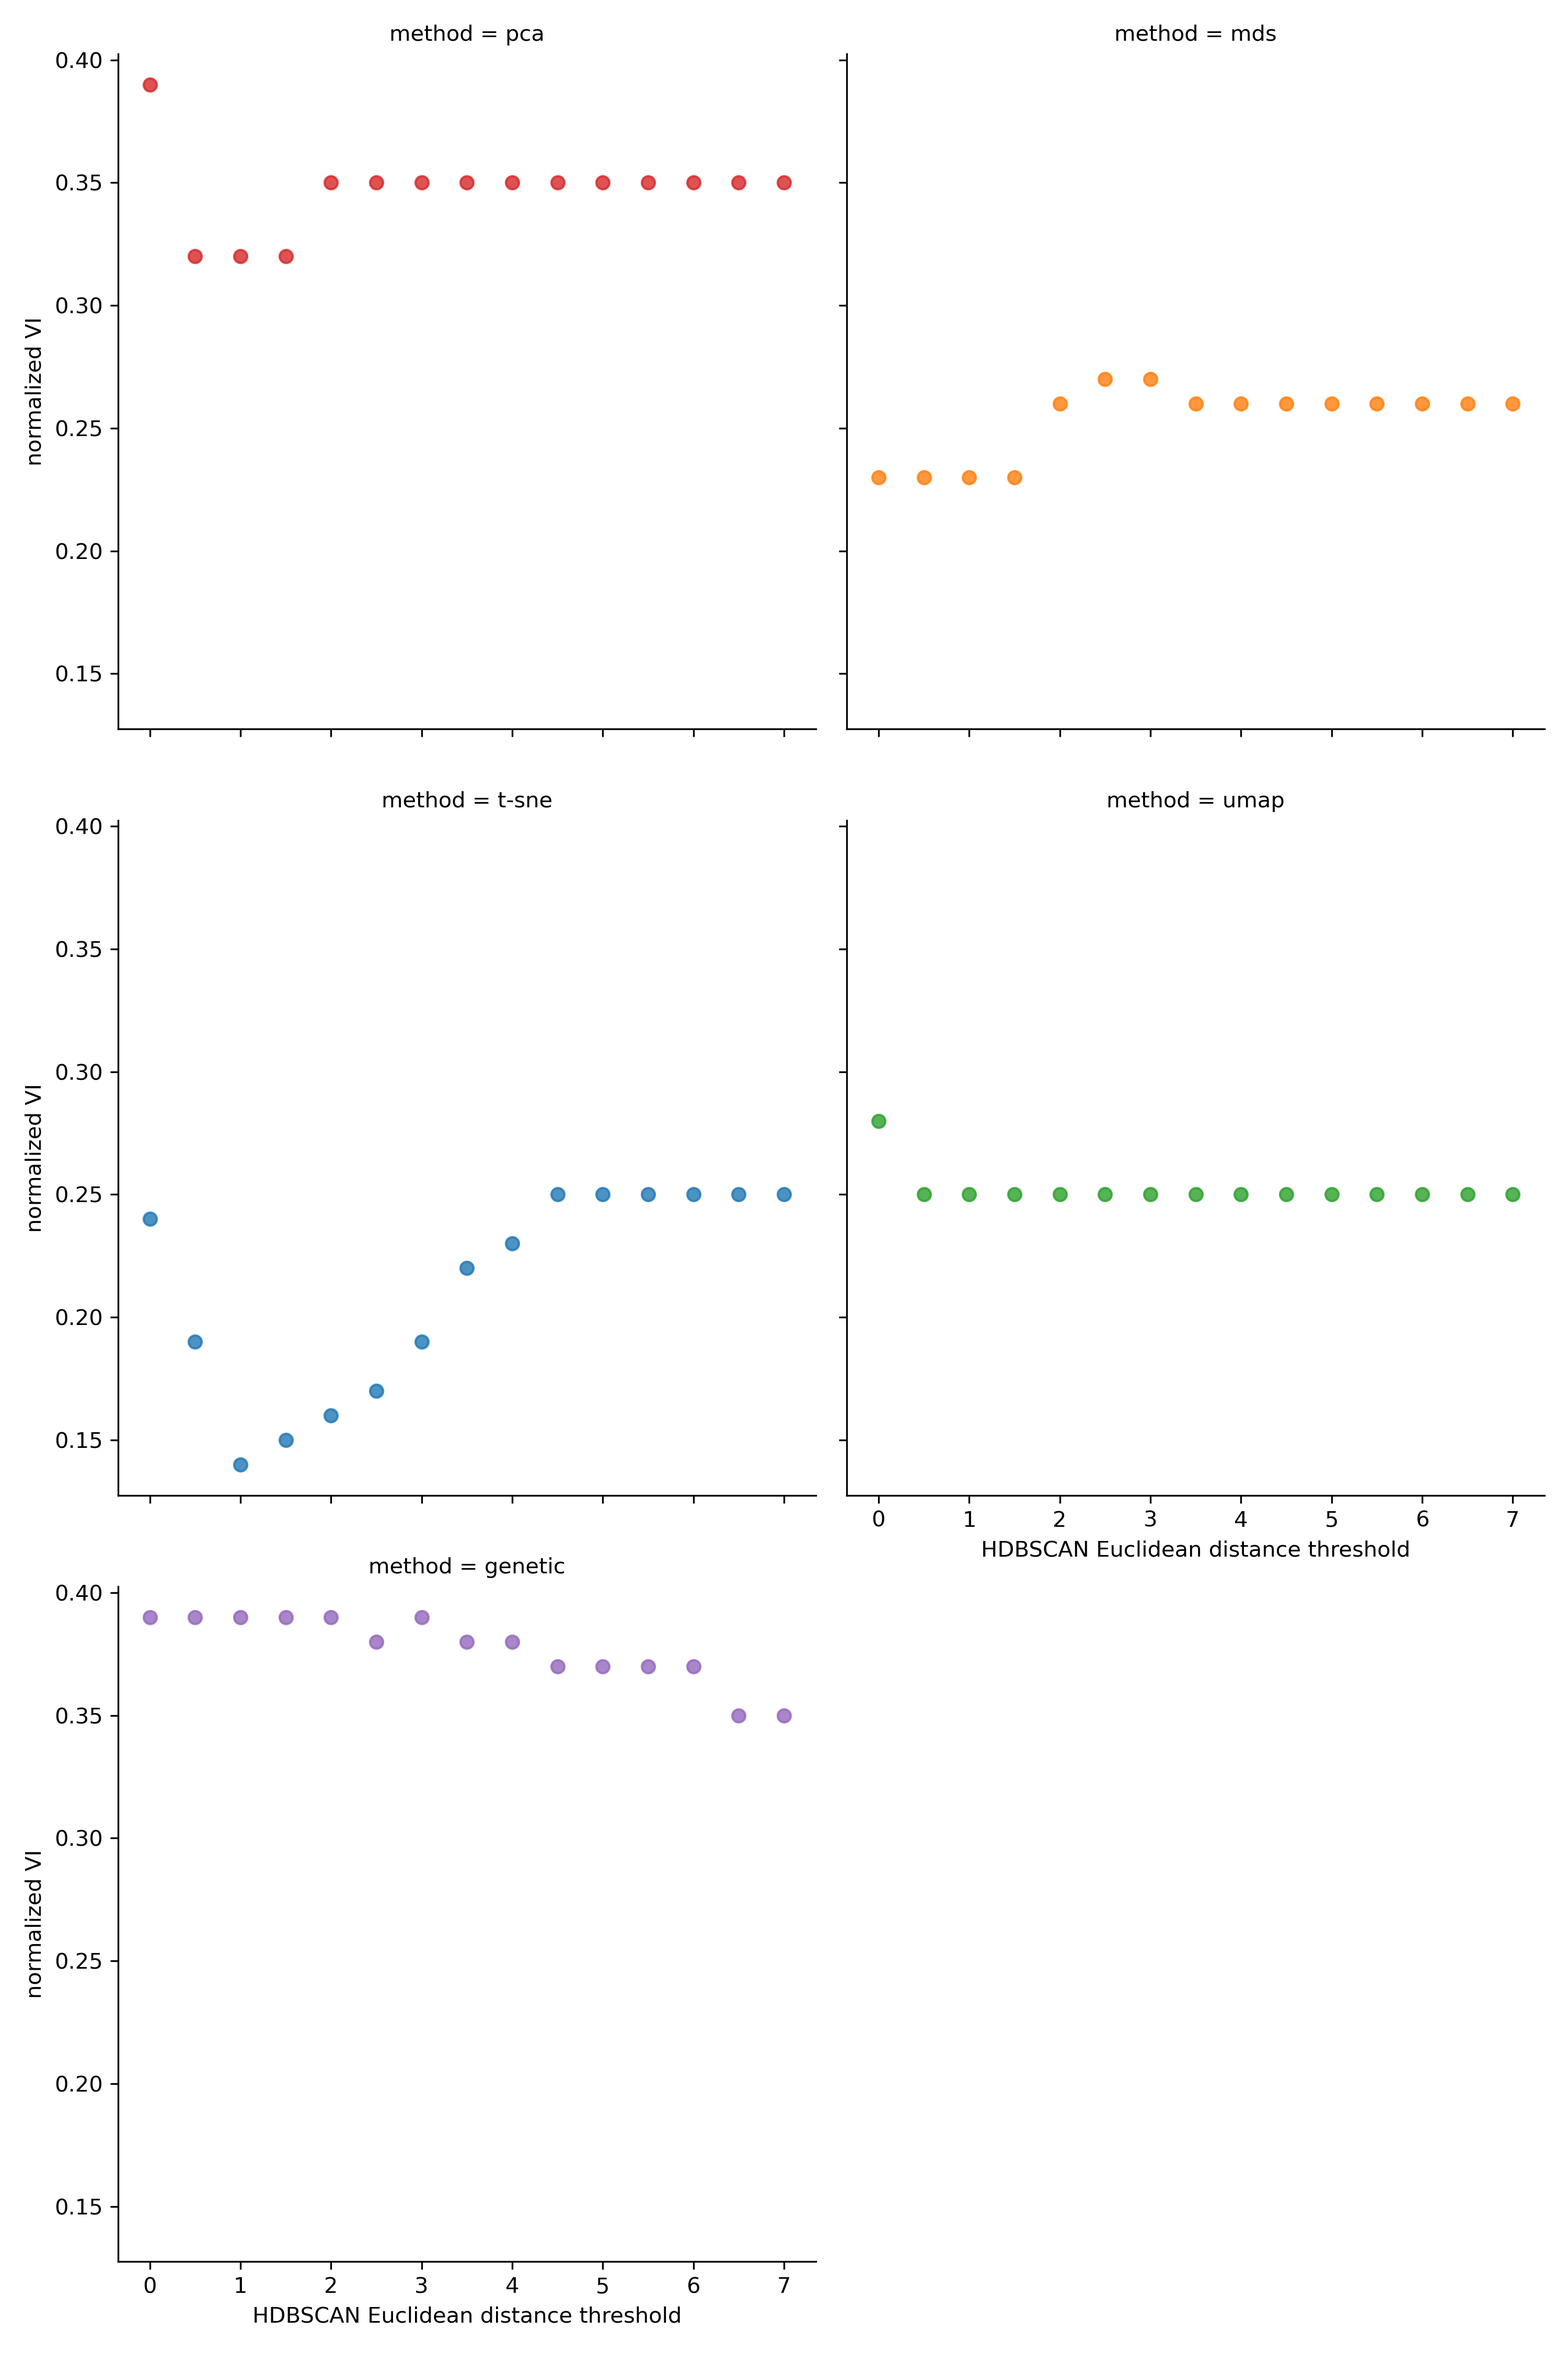
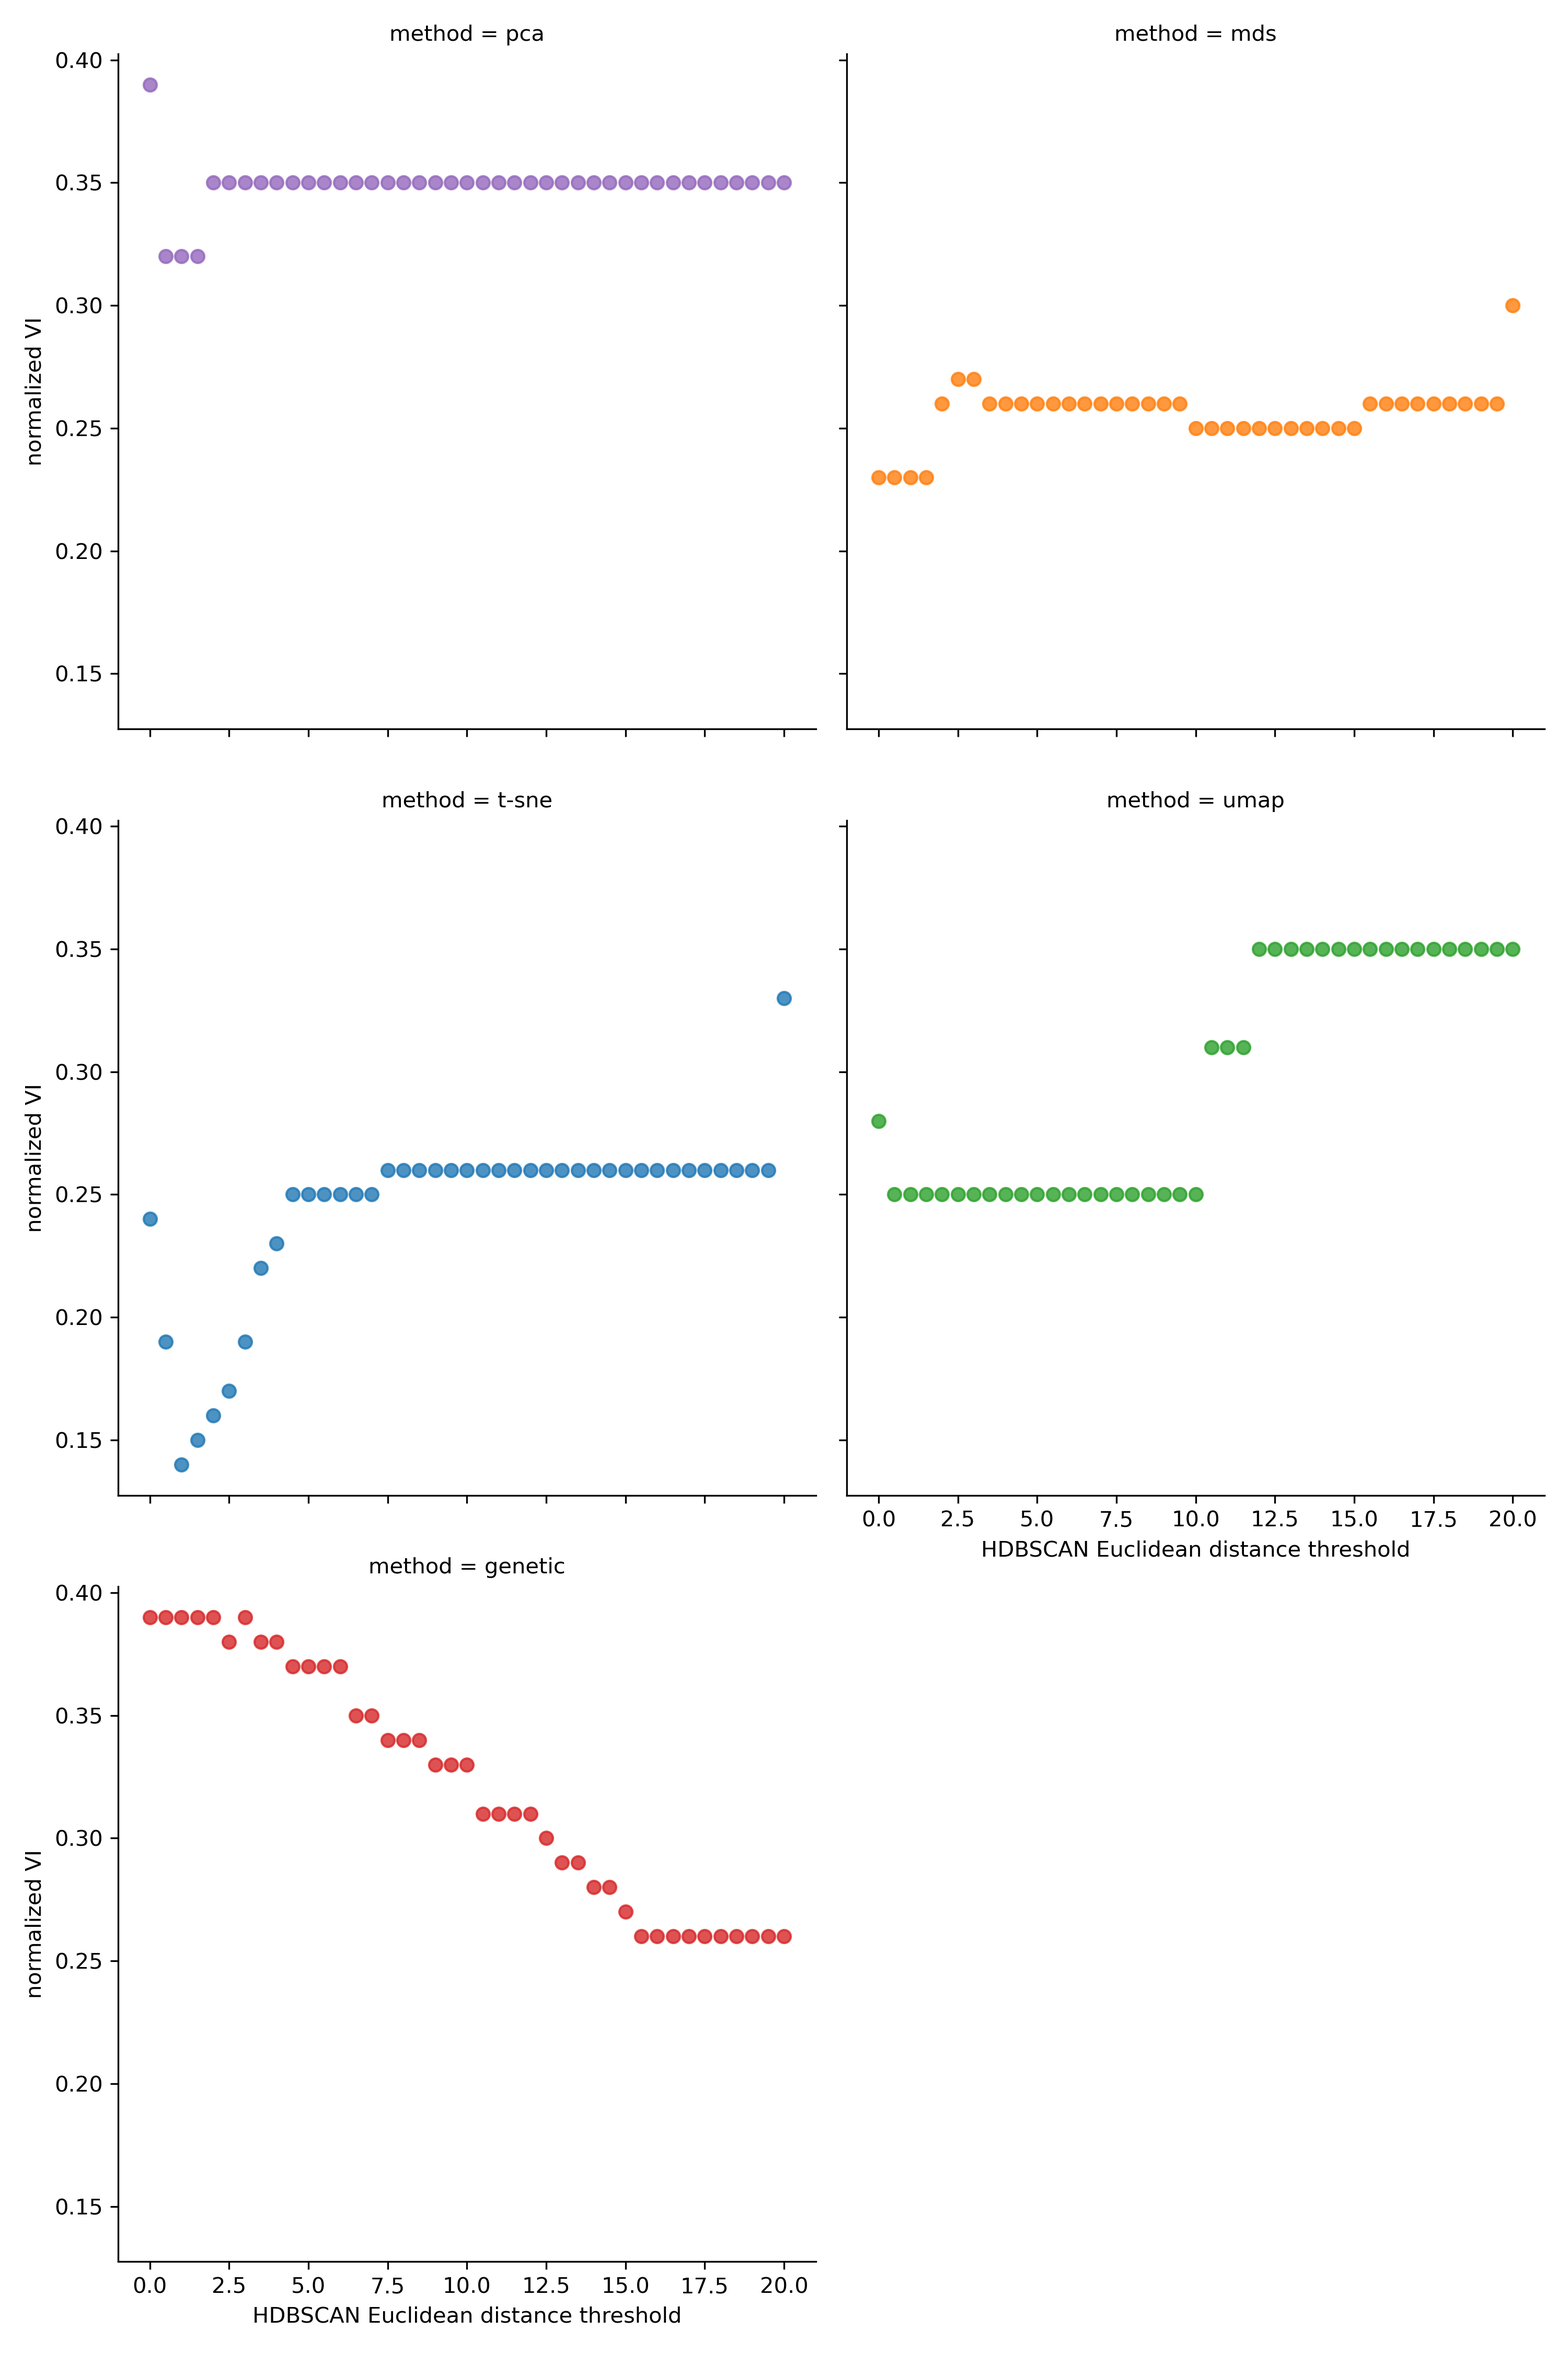
Rerun cluster grid search for more distance threshold values
Increases the range of distance thresholds to use for the grid search across
clusters for flu and SC2 from an upper limit of 7 to 20. This increase comes
from the initial result that the optimal threshold for genetic distance clusters
of SC2 data plateaued at the highest distance threshold which suggested that
higher thresholds might yield more accurate clusters. These results confirm that
higher distance thresholds produce more accurate genetic clusters, while
clusters from the embedding methods had reached their optimal values in the
original range of the analysis.

diff --git a/manuscript/tables/accuracy_table.tex b/manuscript/tables/accuracy_table.tex
@@ -6,16 +6,16 @@ Influenza H3N2 &   Nextstrain clade &   t-SNE & 0.09 &        1.0 \\
                &                    &    UMAP & 0.09 &        1.0 \\
                &                    &     PCA & 0.10 &        0.5 \\
                &                    &     MDS & 0.11 &        3.5 \\
-               &                    & genetic & 0.18 &        5.5 \\
+               &                    & genetic & 0.17 &        8.0 \\
     SARS-CoV-2 &   Nextstrain clade &   t-SNE & 0.09 &        1.0 \\
                &                    &     MDS & 0.15 &        0.0 \\
                &                    &    UMAP & 0.16 &        0.5 \\
+               &                    & genetic & 0.17 &       15.0 \\
                &                    &     PCA & 0.23 &        0.5 \\
-               &                    & genetic & 0.30 &        6.5 \\
     SARS-CoV-2 &              Pango &   t-SNE & 0.14 &        1.0 \\
                &                    &     MDS & 0.23 &        0.0 \\
                &                    &    UMAP & 0.25 &        0.5 \\
+               &                    & genetic & 0.26 &       15.5 \\
                &                    &     PCA & 0.32 &        0.5 \\
-               &                    & genetic & 0.35 &        6.5 \\
 \botrule
 \end{tabular}
